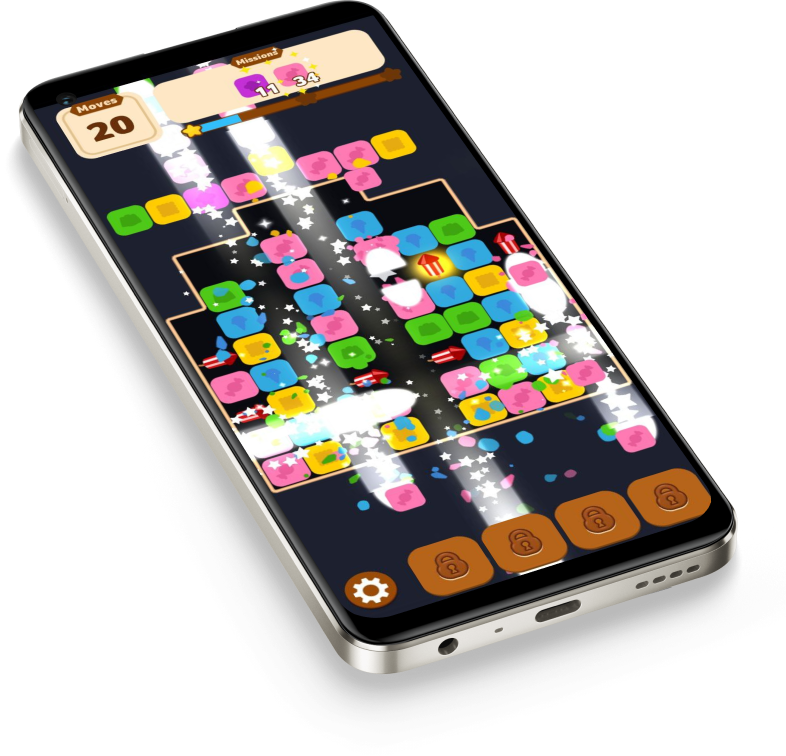
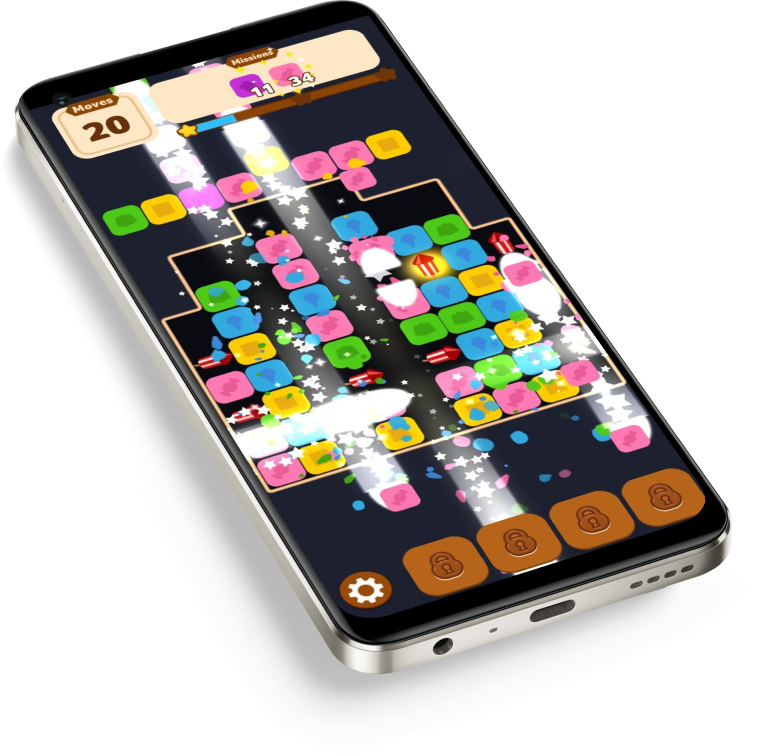
change_img_white_phone_in_about_us

diff --git a/src/scss/aboutus.scss b/src/scss/aboutus.scss
@@ -74,7 +74,7 @@
     display: block;
     position: absolute;
     top: 90px;
-    right: 120px;
+    right: 90px;
     z-index: 1;
     width: 593px;
     height: 445px;
@@ -85,10 +85,10 @@
     display: block;
     position: absolute;
     top: 180px;
-    right: 0px;
+    right: 10px;
     z-index: 2;
-    width: 423px;
-    height: 377.55px;
+    width: 362px;
+    height: 378px;
     flex-shrink: 0;
   }
 }
